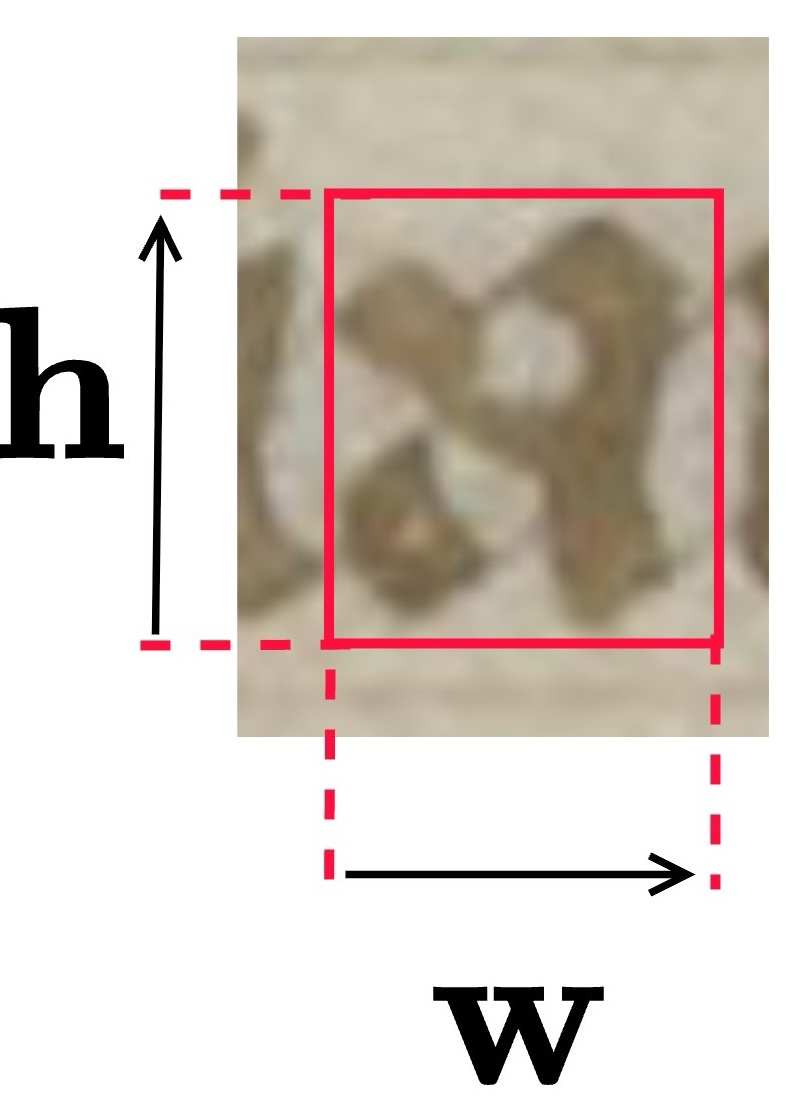
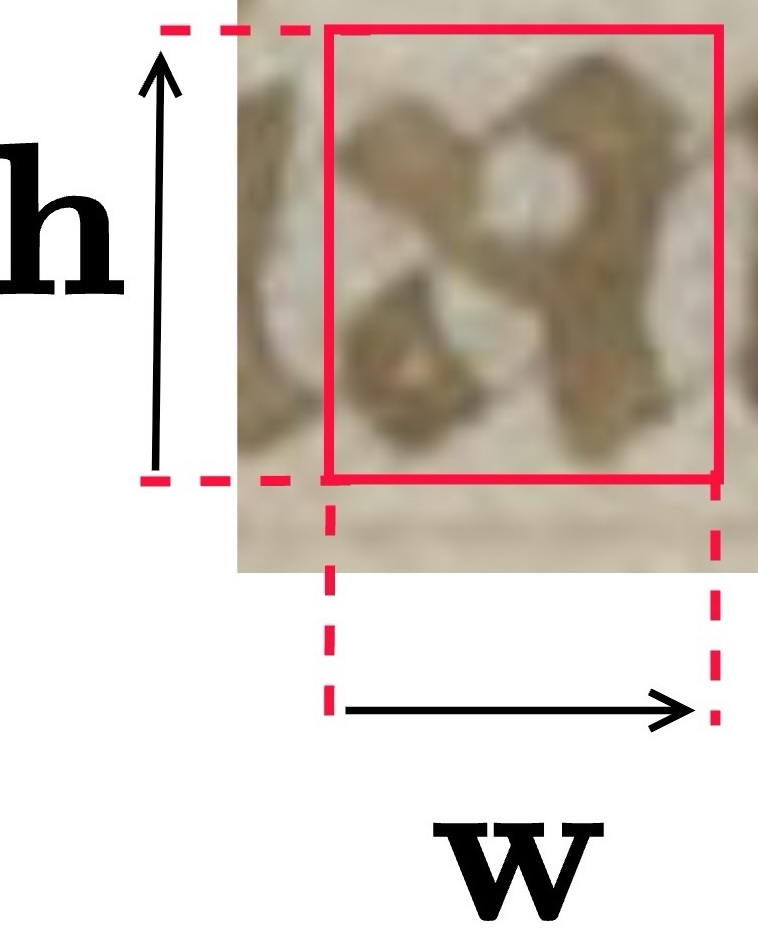
camera ready version

diff --git a/docs/index.html b/docs/index.html
@@ -369,6 +369,8 @@
         </div>
     </header>
 
+    <hr class="section-rule">
+    
     <section>
         <p>
             Paleographic analysis — the study of historical handwriting — still relies heavily on expert eye and subjective comparison. Computational approaches have made progress in recognizing text and extracting character shapes (<em>morphology</em>), but they rarely produce the kind of <strong>quantitative measurements</strong> (<em>metrology</em>) that are needed for <strong>reproducible, large-scale study</strong>.
